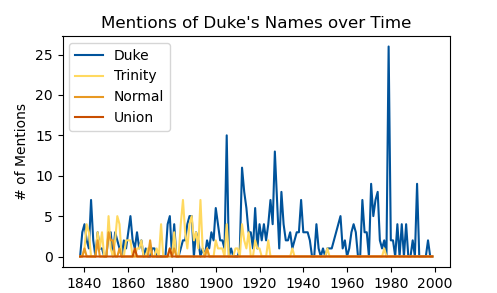
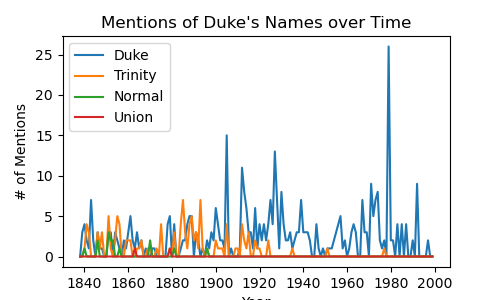
add duke_building png

Changed region(s): [[0.0302, 0.0307, 0.9356, 1.0]]

diff --git a/apps/history.py b/apps/history.py
@@ -41,10 +41,10 @@ def app():
     
     #---------------------------------------------------------------------------------------------------------------------------------------
     
-    st.subheader("Qualitative Analysis of Presidents")
+    # st.subheader("Qualitative Analysis of Presidents")
     
     st.write("""   
-    Presidents Brodie, Keohane, and Edens were not mentioned in the card catalog. Hart did not have any relevant mentions
+    Presidents Brodie, Keohane, and Edens were not mentioned in the card catalog. Hart did not have any relevant mentions.
     
     On two cards, a Richard Brodhead is mentioned, but not the one who was president of Duke. Upon further inspection, this man was a [U.S. Democratic Senator from Pennsylvania](https://en.wikipedia.org/wiki/Richard_Brodhead). The cards upon which he is mentioned can be viewed [here](https://archive.org/details/rubensteinmanuscriptcatalog_P_to_Peo/page/44/mode/2up) and [here](https://archive.org/details/rubensteinmanuscriptcatalog_Pep_to_Pn/page/n393/mode/2up).
 
@@ -200,10 +200,11 @@ def app():
     # dic4 = start(duke, dic4)
     
     # fig = plt.figure(figsize=(5,3))
-    # plt.plot(dic4.keys(), dic4.values(), label='Duke', color='#00539B')
-    # plt.plot(dic3.keys(), dic3.values(), label='Trinity', color='#FFD960')
-    # plt.plot(dic2.keys(), dic2.values(), label='Normal', color='#E89923')
-    # plt.plot(dic1.keys(), dic1.values(), label='Union', color='#C84E00')
+    # plt.plot(dic4.keys(), dic4.values(), label='Duke')
+    # plt.plot(dic3.keys(), dic3.values(), label='Trinity')
+    # plt.plot(dic2.keys(), dic2.values(), label='Normal')
+    # plt.plot(dic1.keys(), dic1.values(), label='Union')
+    
     # plt.legend(loc='upper left')
     # plt.title("Mentions of Duke's Names over Time")
     # plt.xlabel("Year")
